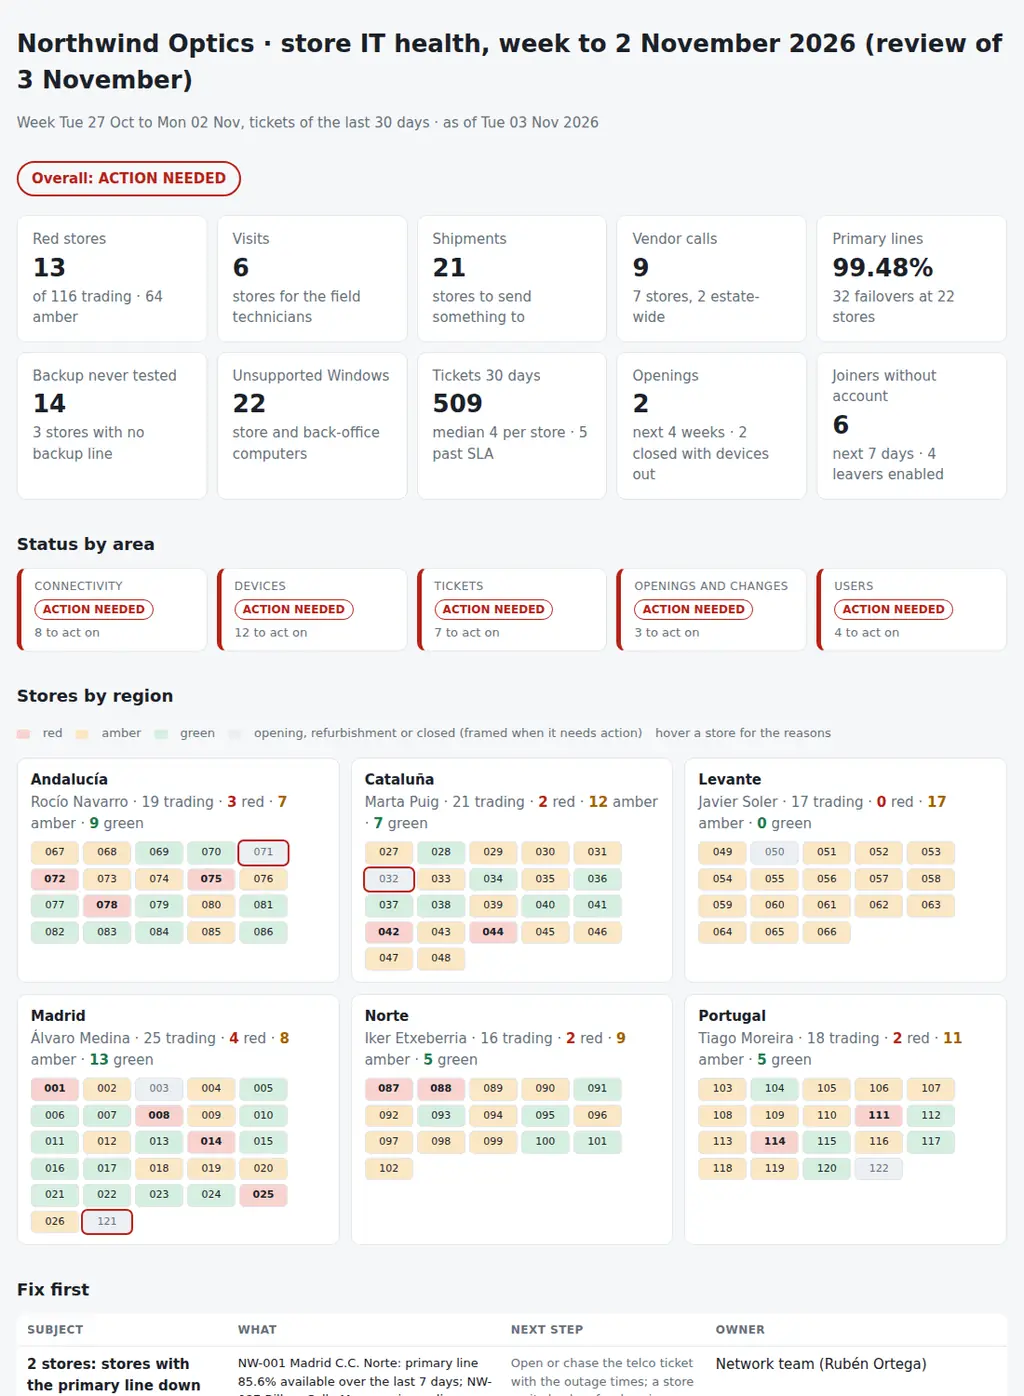
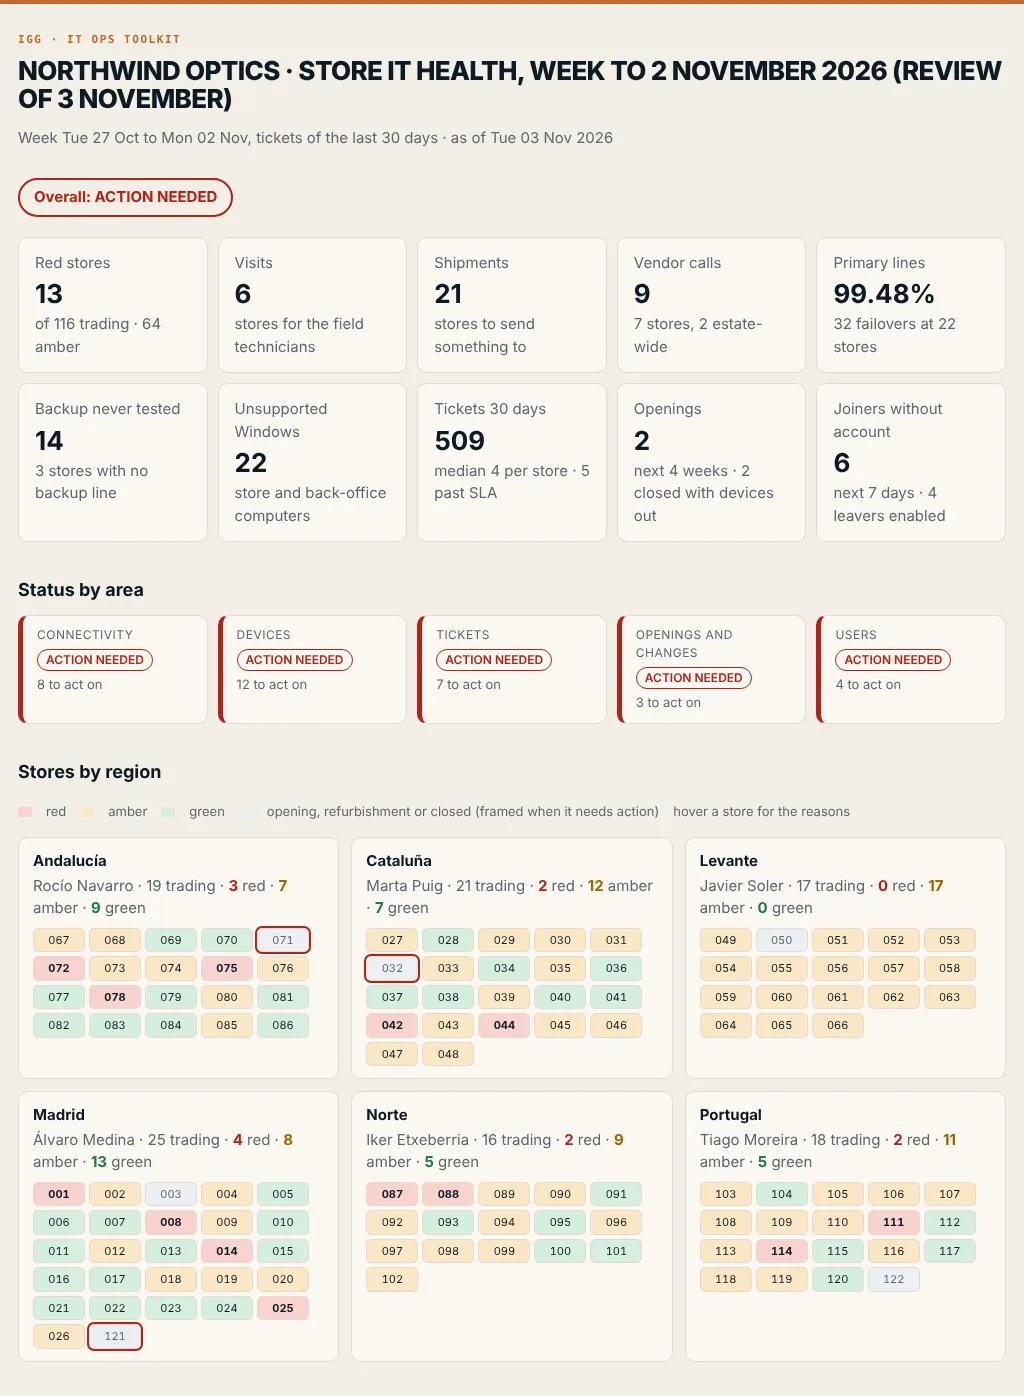
Report: IGG colours (paper, ink and the orange accent) and a new screenshot

diff --git a/storehealth/report.py b/storehealth/report.py
@@ -321,9 +321,9 @@ def pack_md(d: Data, rv: dict, findings: list[Finding], title: str) -> str:
 # ---------------------------------------------------------------- html
 
 CSS = """
-:root{--bg:#f6f7f8;--card:#fff;--ink:#1b2128;--muted:#66717c;--line:#e2e5e9;--ok:#1e7a4c;--warn:#a46200;--bad:#b42318;--info:#0b6bcb;--g:#d6efe0;--a:#fbe7c4;--r:#f8d3cf;--n:#eceff3}
-@media (prefers-color-scheme:dark){:root{--bg:#13171b;--card:#1b2127;--ink:#e7eaee;--muted:#9aa5b0;--line:#2b333b;--ok:#4cc38a;--warn:#f0a83a;--bad:#f2685c;--info:#5aa9f0;--g:#1d3b2b;--a:#4a3818;--r:#4d201c;--n:#262d35}}
-*{box-sizing:border-box}body{margin:0;background:var(--bg);color:var(--ink);font:15px/1.5 system-ui,-apple-system,Segoe UI,sans-serif}
+:root{--bg:#f2eee6;--card:#fbf8f3;--ink:#0e1a24;--muted:#5d6670;--line:#e2dccf;--ok:#1e7a4c;--warn:#a46200;--bad:#b42318;--info:#1f5f8b;--g:#d6efe0;--a:#fbe7c4;--r:#f8d3cf;--n:#eceff3}
+@media (prefers-color-scheme:dark){:root{--bg:#0e1a24;--card:#142331;--ink:#f2eee6;--muted:#a9b3bb;--line:#24364a;--ok:#4cc38a;--warn:#f0a83a;--bad:#f2685c;--info:#5aa9f0;--g:#1d3b2b;--a:#4a3818;--r:#4d201c;--n:#262d35}}
+*{box-sizing:border-box}body{border-top:4px solid #c4672b}h1{font-weight:800;letter-spacing:-.025em;text-transform:uppercase;line-height:1.05}h1::before{content:"IGG · IT Ops toolkit";display:block;font:600 11px/1.4 ui-monospace,SFMono-Regular,Menlo,monospace;letter-spacing:.14em;text-transform:uppercase;color:#c4672b;margin-bottom:10px}body{margin:0;background:var(--bg);color:var(--ink);font:15px/1.5 system-ui,-apple-system,Segoe UI,sans-serif}
 main{max-width:1100px;margin:0 auto;padding:28px 18px 60px}h1{font-size:26px;margin:0 0 4px}h2{font-size:18px;margin:34px 0 12px}h3{font-size:15px;margin:18px 0 8px}
 .muted{color:var(--muted)}.tiles{display:grid;grid-template-columns:repeat(auto-fit,minmax(170px,1fr));gap:10px;margin-top:20px}
 .tile{background:var(--card);border:1px solid var(--line);border-radius:10px;padding:14px 16px}.tile b{display:block;font-size:26px}
